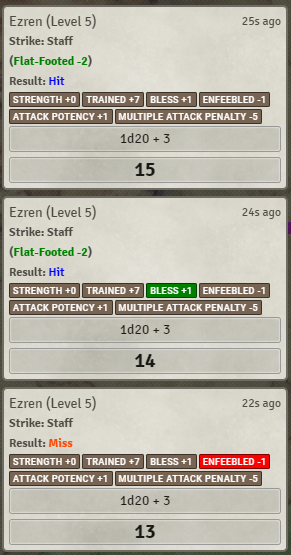
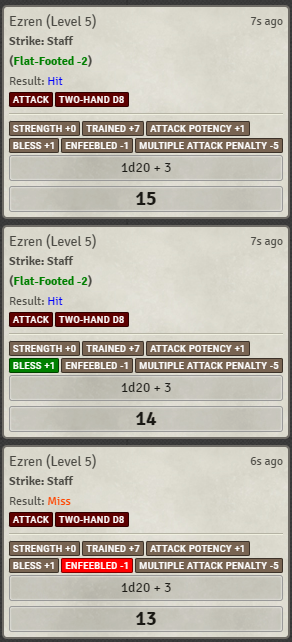
Updated readme with more up-to-date screenshots

diff --git a/Readme.md b/Readme.md
@@ -81,10 +81,10 @@ Same as above, but all conditions were necessary to get the crit.
 
 ![](metadata/example_3.png)
 
-A miss caused by Ezren's Frightened condition.
+A miss caused by Ezren's Enfeebled condition.
 
-Note that Ezren was also Enfeebled, but due to Pathfinder 2e rules, since both of them apply "status"-type penalties one
-of them is ignored by the system (in this case Enfeebled), and isn't shown on the chat card.
+Note that Ezren was also Frightened, but due to Pathfinder 2e rules, since both of them apply "status"-type penalties one
+of them is ignored by the system (in this case Frightened), and isn't shown on the chat card.
 
 ![](metadata/example_4.png)
 
@@ -95,7 +95,7 @@ result. In a way, all of these status effects were equally important here.
 ![](metadata/example_5.png)
 
 In this example, the attack failed because the skeleton had greater cover (+4 to AC). Even though Ezren is also
-frightened the frightened condition modifier on this card will not be highlighted because it did not affect the outcome
+Enfeebled the Enfeebled condition modifier on this card will not be highlighted because it did not affect the outcome
 whatsoever.
 
 ## Credits
